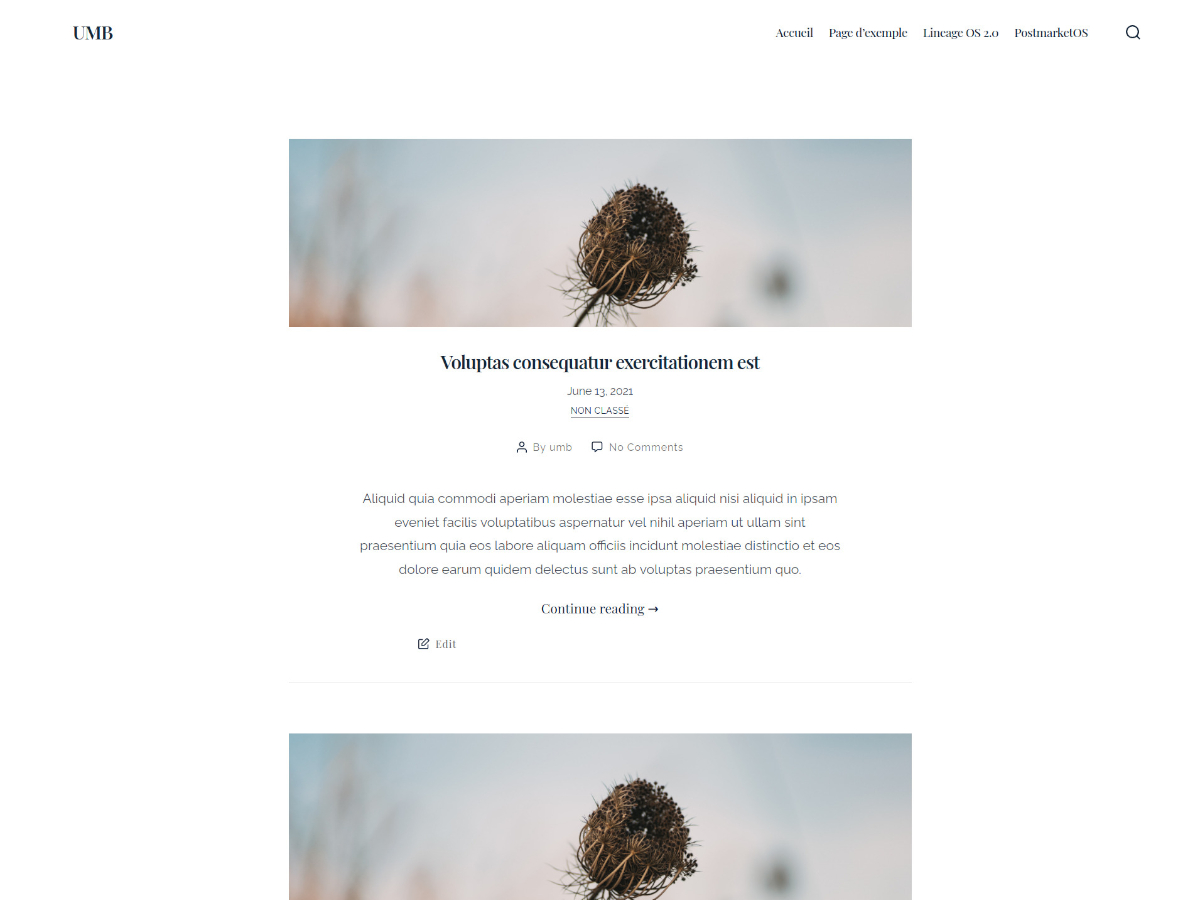
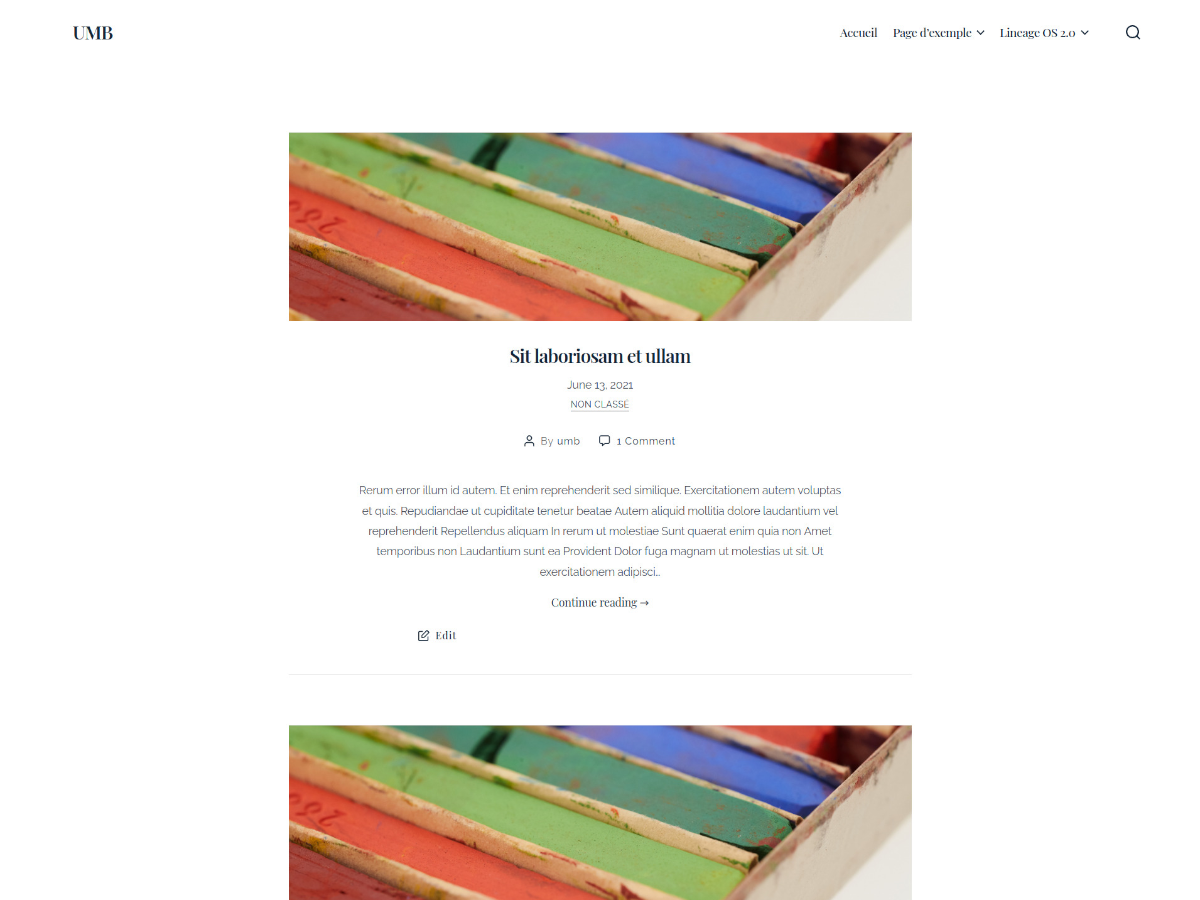
image change

diff --git a/style.css b/style.css
@@ -1,13 +1,13 @@
 /*
 Theme Name: umb
 Author: Arnaud Outtier
-Version: 1.0.0.
+Version: 3.0.1
 Description: This theme is for blog. Simple and minimalist. Choose page width and page layout, 1, 2 or 3 columns. I hope you will like it.
 Tags: blog, grid-layout, one-column, two-columns, three-columns, custom-colors, featured-images
 Template: twentytwenty 
 Text Domain: umb
 Requires at least: 5.0
-Tested up to: 5.6
+Tested up to: 5.8
 Requires PHP: 5.6
 License:GNU General Public License v2 or later
 License URI:http://www.gnu.org/licenses/gpl-2.0.html

diff --git a/functions.php b/functions.php
@@ -145,7 +145,7 @@ function umb_catch_that_image()
     $first_img = isset($matches[1][0]) ? $matches[1][0] : null;
 
     if (empty($first_img)) {
-        $first_img = get_stylesheet_directory_uri() . '/assets/images/victor-grabarczyk-cwcKxz3RQMc-unsplash.jpg';
+        $first_img = get_stylesheet_directory_uri() . '/assets/images/StockSnap_6FWJIMOBNQ2.jpg';
     }
     return $first_img;
 }
